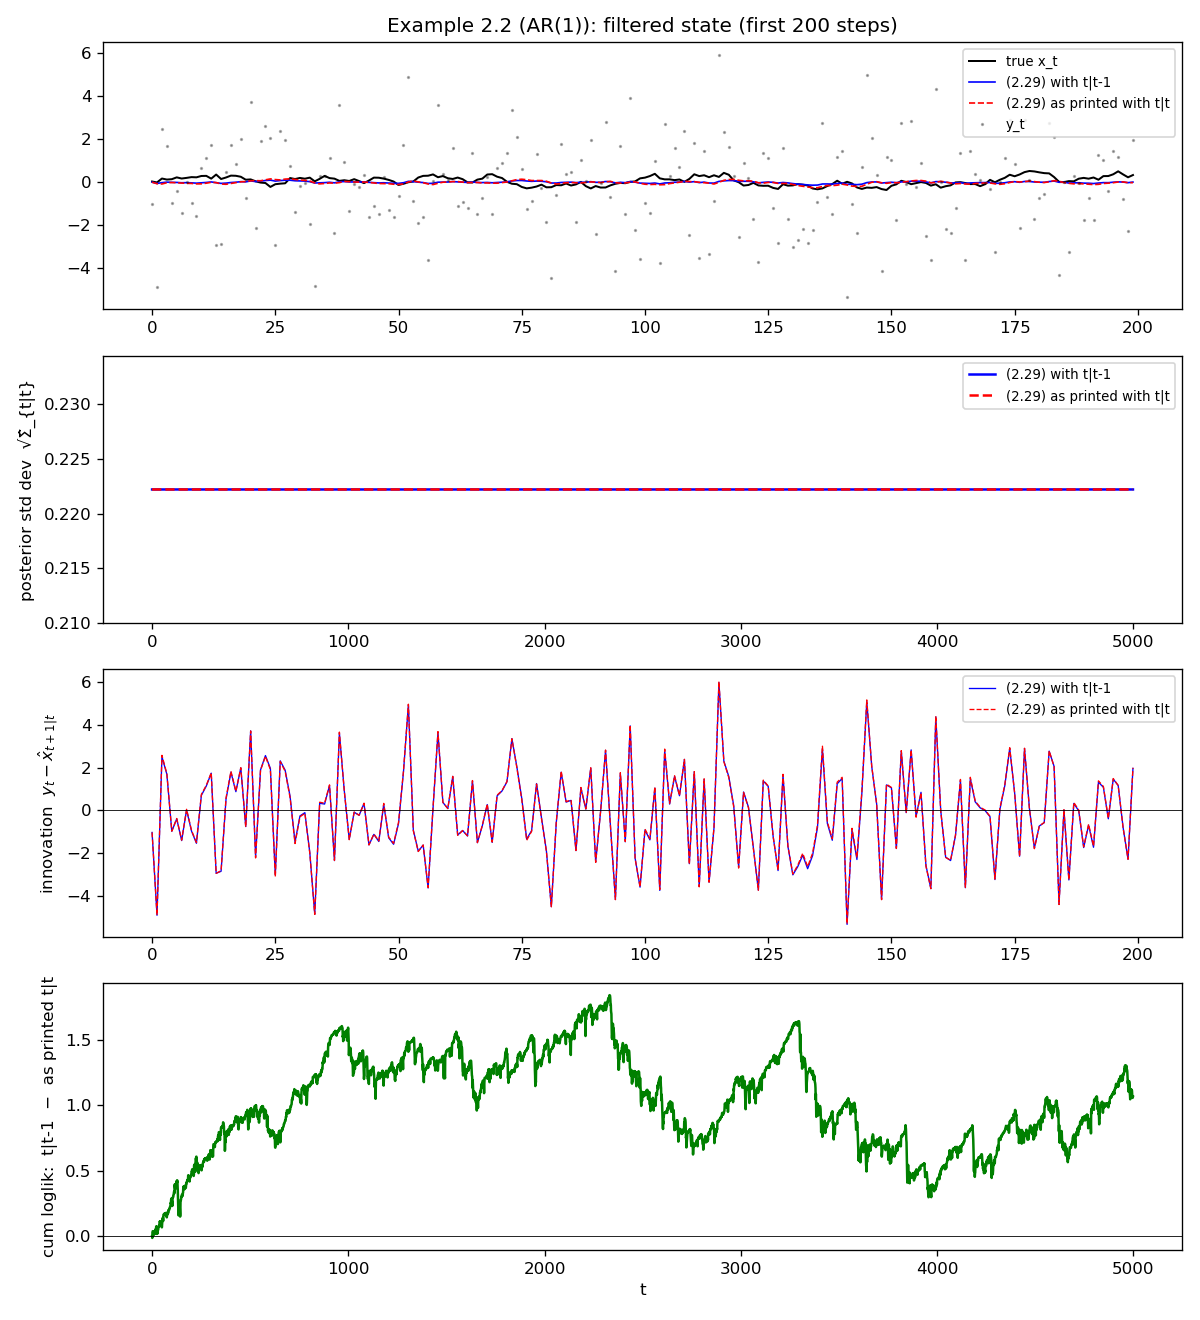
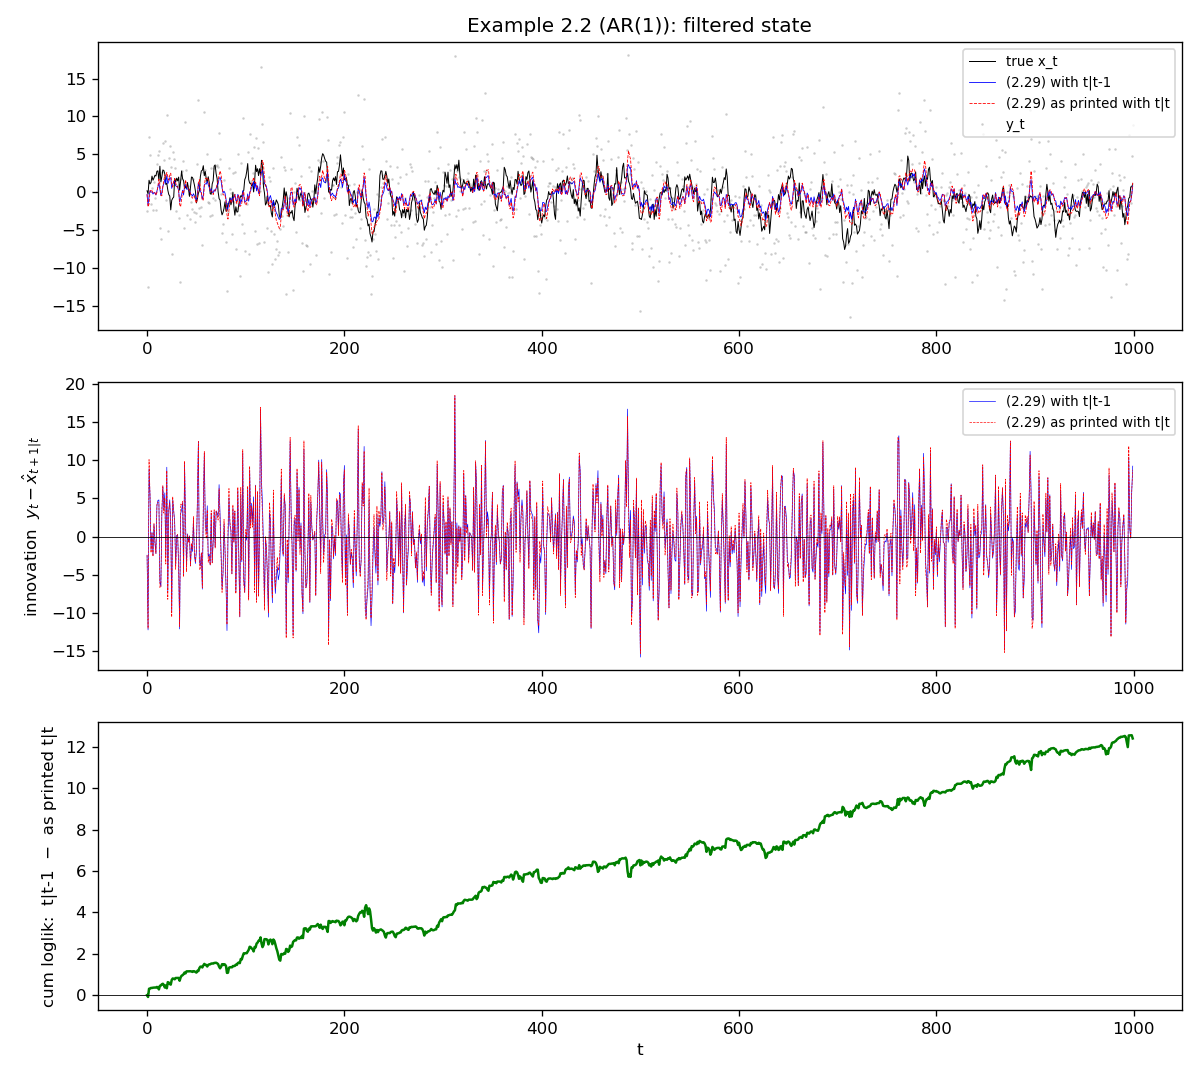
extended plot to 1000 data points

diff --git a/kalman_check.py b/kalman_check.py
@@ -97,7 +97,7 @@ def riccati_ar1(a, tau_eps, tau_eta):
     return 0.5 * ((a ** 2 - 1) * Sn + Se + np.sqrt(disc))
 
 
-def run_example(name, A, b_const, B, tau_eps, tau_eta, sig_init, T=5000, seed=0,
+def run_example(name, A, b_const, B, tau_eps, tau_eta, sig_init, T=1000, seed=0,
                 analytic_sig=None):
     x_true, y = simulate(A, b_const, B, tau_eps, tau_eta, T, x0=0.0, seed=seed)
 
@@ -161,39 +161,32 @@ def run_example(name, A, b_const, B, tau_eps, tau_eta, sig_init, T=5000, seed=0,
 
 
 def plot_example(name, x_true, y, res_c, res_a, fname):
-    win = slice(0, 200)
-    fig, axes = plt.subplots(4, 1, figsize=(10, 11))
+    fig, axes = plt.subplots(3, 1, figsize=(10, 9))
 
-    axes[0].plot(x_true[win], "k-", lw=1.2, label="true x_t")
-    axes[0].plot(res_c["x_post"][win], "b-", lw=1.0, label="(2.29) with t|t-1")
-    axes[0].plot(res_a["x_post"][win], "r--", lw=1.0, label="(2.29) as printed with t|t")
-    axes[0].plot(y[win], "k.", ms=2, alpha=0.3, label="y_t")
+    axes[0].plot(x_true, "k-", lw=0.6, label="true x_t")
+    axes[0].plot(res_c["x_post"], "b-", lw=0.5, label="(2.29) with t|t-1")
+    axes[0].plot(res_a["x_post"], "r--", lw=0.5, label="(2.29) as printed with t|t")
+    axes[0].plot(y, "k.", ms=1, alpha=0.2, label="y_t")
     axes[0].legend(loc="best", fontsize=8)
-    axes[0].set_title(f"{name}: filtered state (first 200 steps)")
-
-    axes[1].plot(np.sqrt(res_c["S_post"]), "b-", label="(2.29) with t|t-1")
-    axes[1].plot(np.sqrt(res_a["S_post"]), "r--", label="(2.29) as printed with t|t")
-    axes[1].set_ylabel("posterior std dev  √Σ̂_{t|t}")
-    axes[1].legend(fontsize=8)
+    axes[0].set_title(f"{name}: filtered state")
 
     innov_c = y - res_c["x_pred"]
     innov_a = y - res_a["x_pred"]
-    axes[2].plot(innov_c[win], "b-", lw=0.8, label="(2.29) with t|t-1")
-    axes[2].plot(innov_a[win], "r--", lw=0.8, label="(2.29) as printed with t|t")
-    axes[2].axhline(0, color="k", lw=0.5)
-    # axes[2].set_ylabel("innovation  y_t − B x̂_{t|t-1}")
-    axes[2].set_ylabel(r"innovation  $y_{t} - \hat{x}_{t+1|t}$")
-    axes[2].legend(fontsize=8)
+    axes[1].plot(innov_c, "b-", lw=0.4, label="(2.29) with t|t-1")
+    axes[1].plot(innov_a, "r--", lw=0.4, label="(2.29) as printed with t|t")
+    axes[1].axhline(0, color="k", lw=0.5)
+    axes[1].set_ylabel(r"innovation  $y_{t} - \hat{x}_{t+1|t}$")
+    axes[1].legend(fontsize=8)
 
     tau_eta2 = res_c["_tau_eta2"]
     Sc = res_c["S_pred"] + tau_eta2
     Sa = res_a["S_pred"] + tau_eta2
     ll_c = -0.5 * (np.log(2 * np.pi * Sc) + innov_c ** 2 / Sc)
     ll_a = -0.5 * (np.log(2 * np.pi * Sa) + innov_a ** 2 / Sa)
-    axes[3].plot(np.cumsum(ll_c - ll_a), "g-")
-    axes[3].axhline(0, color="k", lw=0.5)
-    axes[3].set_ylabel("cum loglik:  t|t-1  −  as printed t|t")
-    axes[3].set_xlabel("t")
+    axes[2].plot(np.cumsum(ll_c - ll_a), "g-")
+    axes[2].axhline(0, color="k", lw=0.5)
+    axes[2].set_ylabel("cum loglik:  t|t-1  −  as printed t|t")
+    axes[2].set_xlabel("t")
 
     plt.tight_layout()
     plt.savefig(fname, dpi=120)
@@ -203,14 +196,13 @@ def plot_example(name, x_true, y, res_c, res_a, fname):
 
 def main():
     # ---- Example 2.1: Muth / random walk + noise ----
-    # κ = τ_η/τ_ε = 0.5  →  K ≈ 0.83  (intermediate gain to make the (2.29) typo bite hardest)
-    tau_eps, tau_eta = 1.0, 0.5
+    tau_eps, tau_eta = 1, 5
     sig_ss_muth = riccati_muth(tau_eps, tau_eta)
     x_true, y, res_c, res_a = run_example(
         "Example 2.1 (Muth: random walk + noise)",
         A=1.0, b_const=0.0, B=1.0,
         tau_eps=tau_eps, tau_eta=tau_eta,
-        sig_init=sig_ss_muth, T=5000, seed=1,
+        sig_init=sig_ss_muth, T=1000, seed=1,
         analytic_sig=sig_ss_muth,
     )
     res_c["_tau_eta2"] = tau_eta ** 2
@@ -223,14 +215,13 @@ def main():
     mu = 0.0
     a = 1 - lam
     b_const = lam * mu
-    # κ = 0.5 here too; previously κ=20 made K≈0.012 and the two filters indistinguishable
-    tau_eps, tau_eta = 1.0, 0.5
+    tau_eps, tau_eta = 1, 5
     sig_ss_ar1 = riccati_ar1(a, tau_eps, tau_eta)
     x_true, y, res_c, res_a = run_example(
         "Example 2.2 (AR(1) + noise)",
         A=a, b_const=b_const, B=1.0,
         tau_eps=tau_eps, tau_eta=tau_eta,
-        sig_init=sig_ss_ar1, T=5000, seed=2,
+        sig_init=sig_ss_ar1, T=1000, seed=2,
         analytic_sig=sig_ss_ar1,
     )
     res_c["_tau_eta2"] = tau_eta ** 2